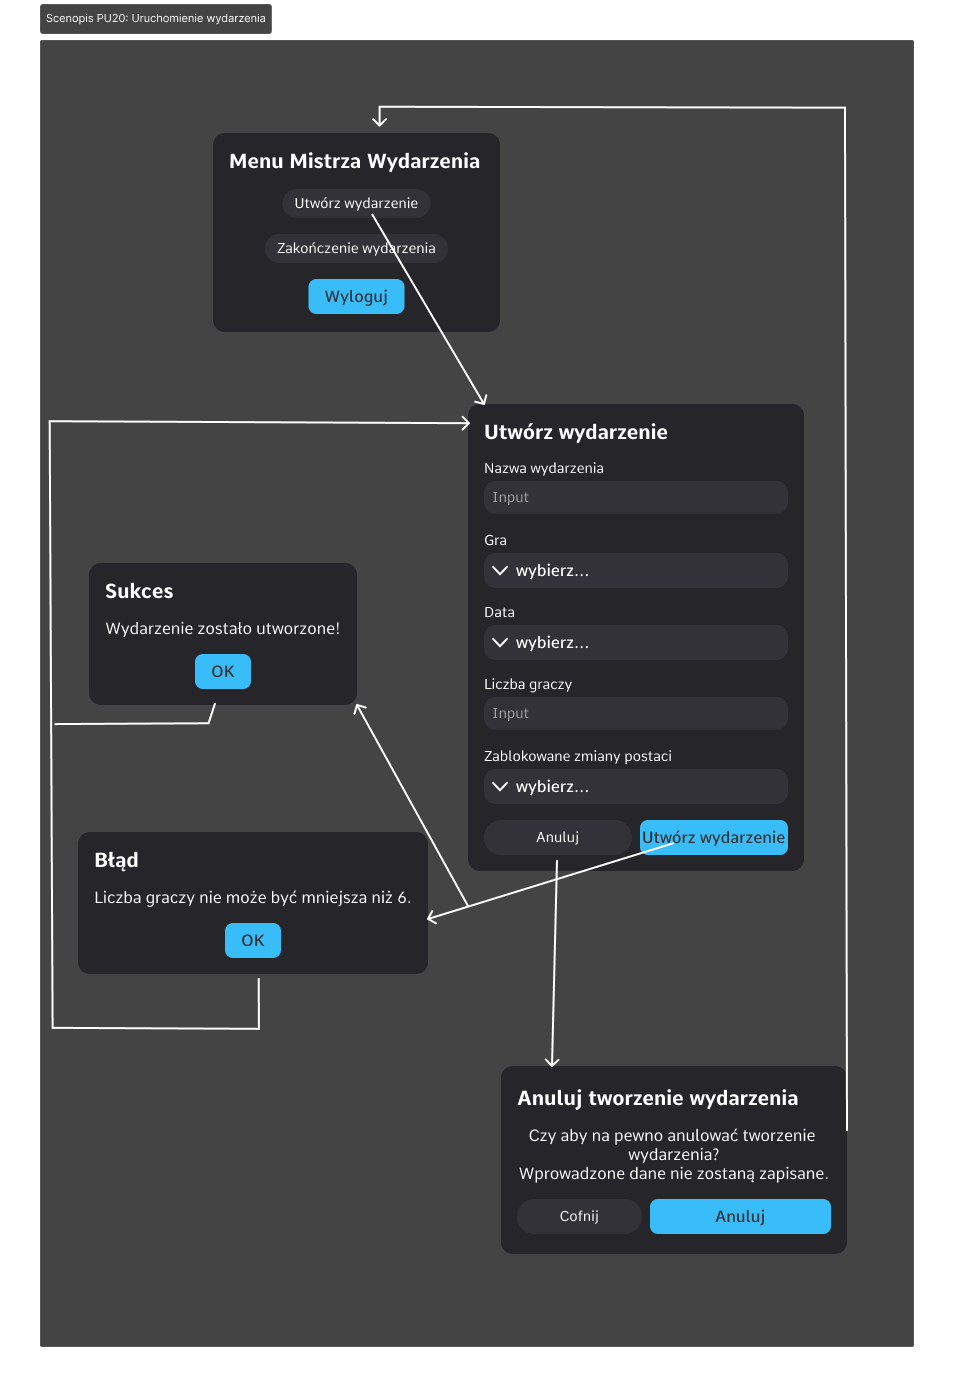
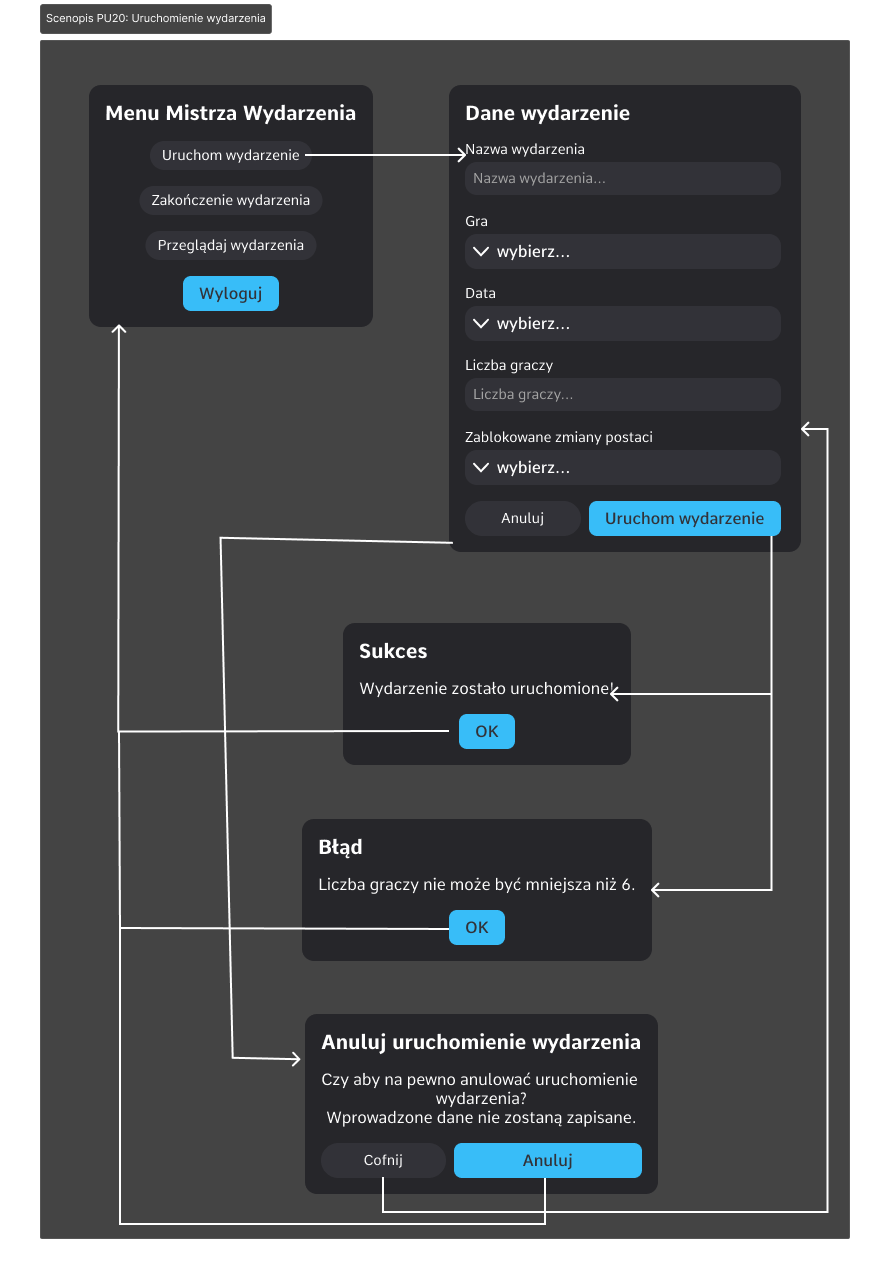
pu20: poprawki

diff --git a/README.md b/README.md
@@ -2798,21 +2798,35 @@ final: failure
 
 **Scenariusz główny**
 
-1. System wyświetla formularz z [Danymi warunku rozpoczęcia].
-2. Mistrz Wydarzenia uzupełnia formularz.
-3. System waliduje poprawność wprowadzonych danych.
+1. Mistrz Wydarzenia wybiera opcję Uruchom [Wydarzenie].
+2. System wyświetla formularz z [Danymi warunku rozpoczęcia].
+3. Mistrz Wydarzenia uzupełnia formularz.
+4. System waliduje poprawność wprowadzonych danych.
    [dane poprawne]
-4. System wyświetla potwierdzenie uruchomienia [Wydarzenia].
+5. System wyświetla potwierdzenie uruchomienia [Wydarzenia].
 
 **final:** success
 
 **Scenariusz alternatywny A: Niespełnione warunki rozpoczęcia**
 
-1.-3. tak jak w scenariuszu głównym.  
-[warunki niespełnione]  
-4a. System wyświetla komunikat o niespełnionych warunkach rozpoczęcia.
+1.-4. tak jak w scenariuszu głównym.  
+[dane niepopranwe]  
+5a. System wyświetla komunikat o niespełnionych warunkach rozpoczęcia.
 
-Powrót do zdania 2 scenariusza głównego.
+Powrót do zdania 3 scenariusza głównego.
+
+---
+
+**Scenariusz alternatywny B: Anulowanie uruchomienia wydarzenia**
+
+1.-2. tak jak w scenariuszu głównym.
+
+3b. Mistrz Wydarzenia anuluje uruchomienie [Wydarzenia].  
+4b. System wyświetla prośbę o potwierdzenie.  
+5b. Mistrz Wydarzenia potwierdza anulowanie.  
+6b. System zamyka formularz uruchomienia [Wydarzenia]
+
+**final:** failure
 
 **Scenopis:**
 ![Scenopis - Definiowanie warunków zwycięstwa](scenopisy/scenopis_PU20.png)